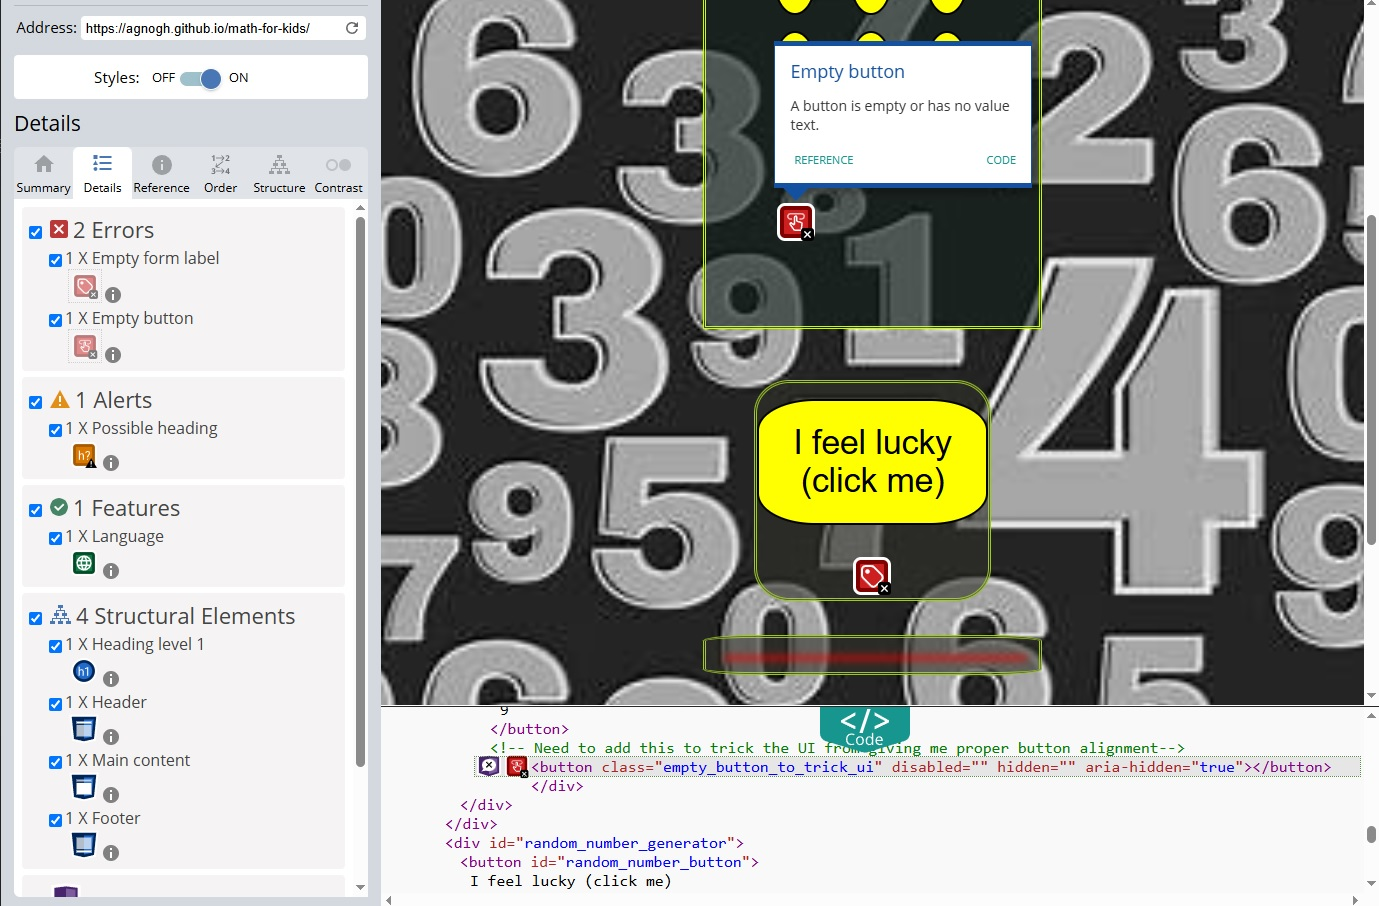
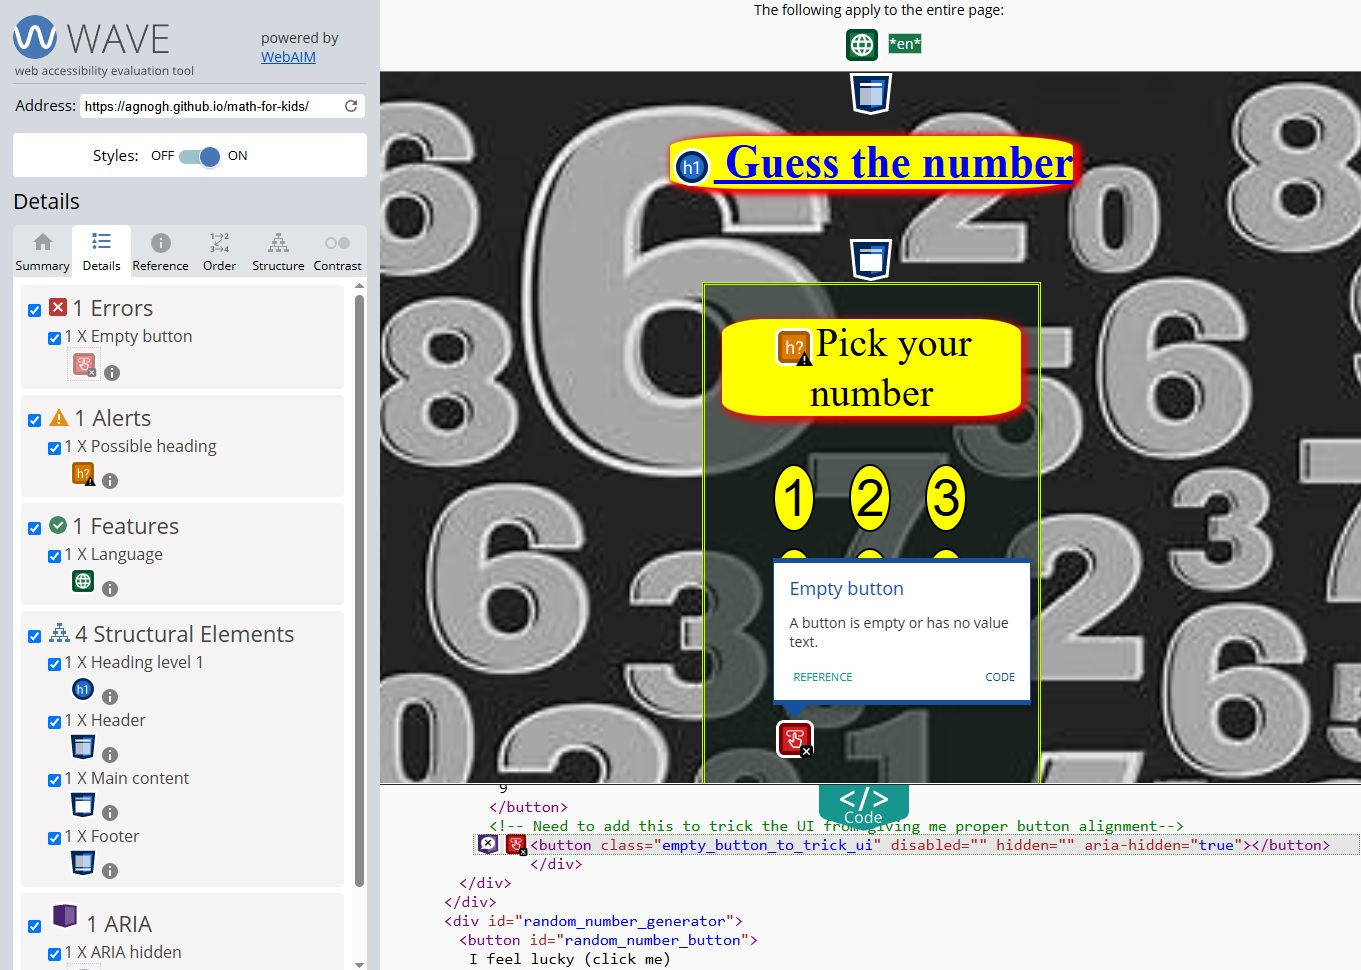
updating html and CSS by removing commended code that I needed to confirm will not break anything

diff --git a/assests/css/styles.css b/assests/css/styles.css
@@ -145,15 +145,7 @@ main {
     font-size: 1.5em;
 
 }
-/*
-#random_number_label {
-    background-color: yellowgreen;
-    color: aliceblue;
-    border-radius: 25%;
-    font-size: 1.5em;
 
-}
-*/
 #selectedNumberBox {
     background-color: rgba(47, 48, 40, 0.6);
     color: aliceblue;

diff --git a/index.html b/index.html
@@ -55,10 +55,7 @@
                 I feel lucky (click me)
             </button>
             <br>
-            <br>
-        <!--    <label id="random_number_label">
-                
-            </label> -->
+
         </div>
 
         <div id="selectedNumberBox">

diff --git a/README.md b/README.md
@@ -19,8 +19,7 @@ https://jigsaw.w3.org/css-validator/validator?uri=https%3A%2F%2Fagnogh.github.io
 
 ### *Accessibility Validator*
 
-*Accessibility shows 2 errors, but in fact they do now really cause accessibiliy issues as one is blank button to help alignment when user has top and bottom button where top buttons are 1-5 and bottom 6-9 where unequal alignemtn would show*
+*Accessibility shows 1 error, but in fact they do now really cause accessibiliy issues as it is blank button to help alignment when user has top and bottom button where top buttons are 1-5 and bottom 6-9 where unequal alignemtn would show*
 https://wave.webaim.org/report#/https://agnogh.github.io/math-for-kids/
 ![Accessibility Validator for "Guess the number game"](../math-for-kids/assests/images/Accessibility%20Validator%20-1-.jpg)
 
-![Accessibility Validator for "Guess the number game"](../math-for-kids/assests/images/Accessibility%20Validator%20-2-.jpg)
